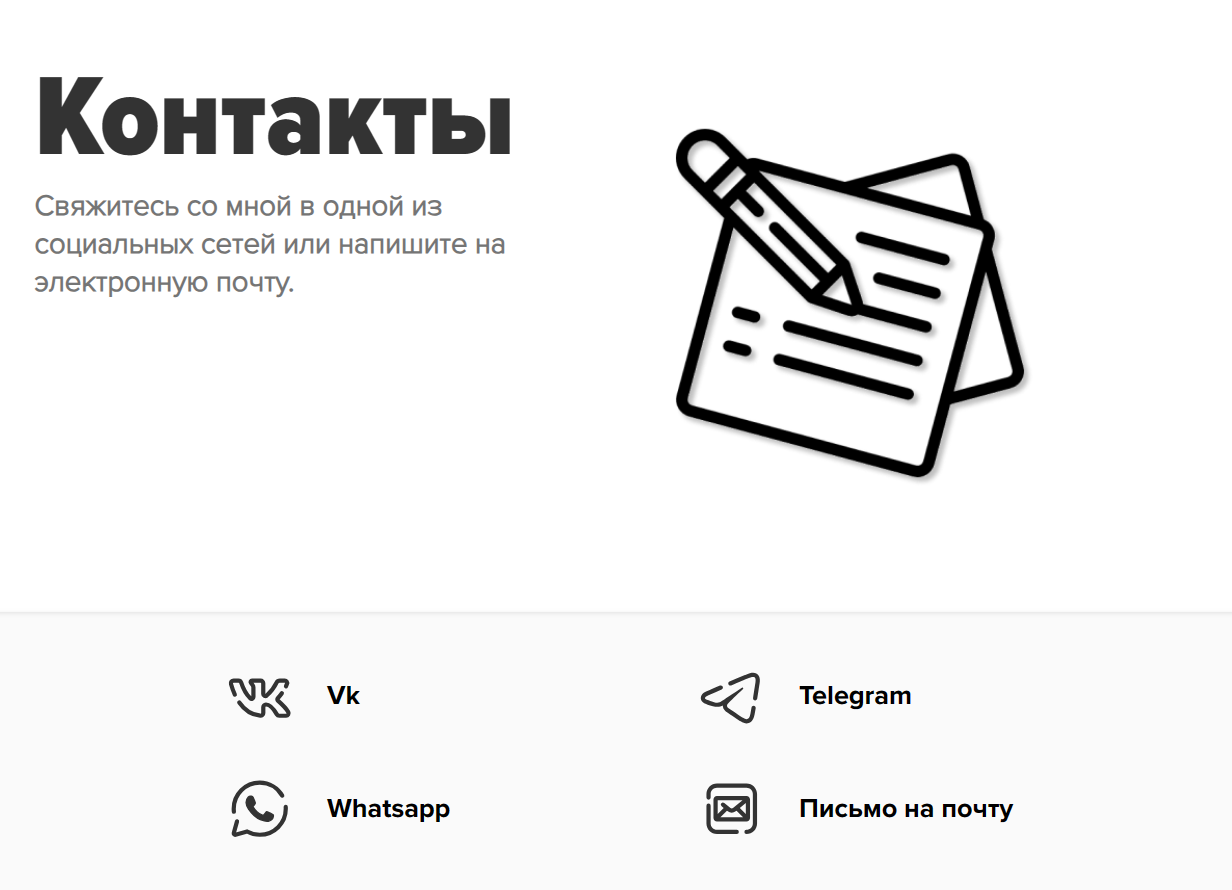
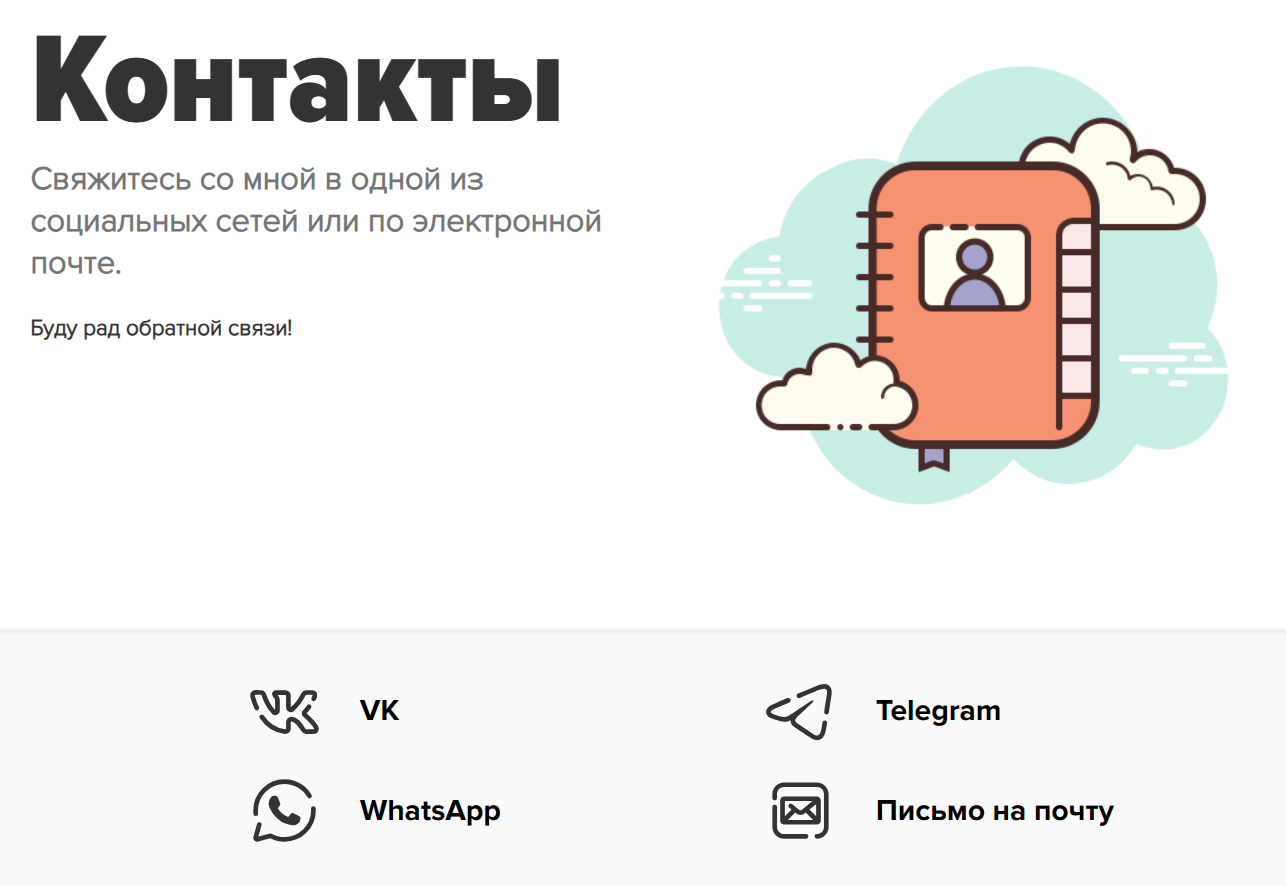
Рефакторинг кода, замена главного фото, коррекция ссылки в футере

diff --git a/src/data/portfolio.js b/src/data/portfolio.js
@@ -68,7 +68,7 @@ const portfolioList = [
         id: 4,
         name: 'Не реализовано',
         description:
-          'Страница "О Седоне", все скрипты, открытие и закрытие модального окна, слайдер в каталоге, сортировка и вид карточек в каталоге, динамическая загрузка карточек, адаптивность',
+          'Страница "О Седоне"; Все скрипты, открытие и закрытие модального окна; Слайдер в каталоге; Сортировка и вид карточек в каталоге; Динамическая загрузка карточек; Адаптивность',
       },
     ],
     images: [
@@ -128,13 +128,13 @@ const portfolioList = [
         id: 3,
         name: 'Дополнительно',
         description:
-          'Адаптив под телефон, планшет и десктоп, подключены интерактивные карты от Яндекса, отправка формы заявки на подбор программы, сборка и оптимизация через Gulp',
+          'Адаптив под телефон, планшет и десктоп; Подключены интерактивные карты от Яндекса; Отправка формы заявки на подбор программы; Сборка и оптимизация через Gulp',
       },
       {
         id: 4,
         name: 'Не реализовано',
         description:
-          'Слайдер на главной странице, корзина, загрузка ассортимента продукции',
+          'Слайдер на главной странице; Корзина; Загрузка ассортимента продукции',
       },
     ],
     images: [
@@ -184,18 +184,19 @@ const portfolioList = [
       {
         id: 2,
         name: 'Сверстанные страницы',
-        description: 'Главная, модальное окно загрузки фотографий',
+        description: 'Главная, Модальное окно загрузки фотографий',
       },
       {
         id: 3,
         name: 'Дополнительно',
         description:
-          'Подключены валидатор и слайдер, загрузка данных с сервера, фильтры изображения, сортировка отображения на сайте, попап статуса загрузки, динамическая подгрузка комментариев и данных фотографий',
+          'Подключены валидатор и слайдер; Загрузка данных с сервера; Фильтры изображения; Сортировка отображения на сайте; Попап статуса загрузки; Динамическая подгрузка комментариев и данных фотографий',
       },
       {
         id: 3,
         name: 'Не реализовано',
-        description: 'Добавление комментария к фотографиям',
+        description:
+          'Добавление комментария к фотографиям; Отображение загруженного изображения на сайте',
       },
     ],
     images: [
@@ -251,7 +252,7 @@ const portfolioList = [
         id: 3,
         name: 'Дополнительно',
         description:
-          'Слайдер в каталоге, привязка слайдера к чекбоксам выбора продукта, табы в описании продукта, оформленный заказ отправляется в Alert на сайте',
+          'Слайдер в каталоге; Привязка слайдера к чекбоксам выбора продукта; Табы в описании продукта; Оформленный заказ отправляется в Alert на сайте (для наглядности)',
       },
       {
         id: 4,
@@ -306,18 +307,19 @@ const portfolioList = [
         id: 2,
         name: 'Сверстанные страницы',
         description:
-          'Главная, Обо мне, Портфолио, Контакты и страницы каждого проекта',
+          'Главная, Обо мне, Портфолио, Контакты и страницы для каждого проекта',
       },
       {
         id: 3,
         name: 'Дополнительно',
         description:
-          'Подключен слайдер, все данные передаются из data-файлов и элементы отрисовываются по шаблонам',
+          'Подключен слайдер; Данные передаются из data.js-файлов и элементы отрисовываются по шаблонам',
       },
       {
         id: 4,
         name: 'Не реализовано',
-        description: 'Адаптивность, анимации',
+        description:
+          'Адаптивность через React-responsive; Анимации; Форма отправки сообщения на почту (временно реализовано через ссылку)',
       },
     ],
     images: [

diff --git a/src/components/layouts/footer/footer.jsx b/src/components/layouts/footer/footer.jsx
@@ -1,26 +1,19 @@
 import Navigation from '../../blocks/navigation/navigation';
 import Button from '../../ui/button/button';
-import { FooterIconsStyled, StyledCopyIcon, StyledCopyright, StyledFooter, StyledFooterWrapper } from './style';
+import { CopyIconStyled, CopyrightStyled, FooterStyled, FooterWrapperStyled } from './style';
 import copyicons from '../../../assets/icons/icons-author.svg';
-import { HandySvg } from 'handy-svg';
 
 export default function Footer() {
   return (
-    <StyledFooter>
-      <StyledFooterWrapper>
-        <StyledCopyright>&#169; 2023 Yuriy Plotnikov</StyledCopyright>
-        <FooterIconsStyled>
-            <span>icons by</span>
-          <Button padding href='https://icons8.com'>
-            Icons8
-          </Button>
-          <span>&</span>
-          <Button padding href='https://www.flaticon.com/ru/free-icons'>
-            Freepik
-          </Button>
-        </FooterIconsStyled>
+    <FooterStyled>
+      <FooterWrapperStyled>
+        <CopyrightStyled>&#169; 2023 Yuriy Plotnikov</CopyrightStyled>
+        <Button href='https://icons8.com'>
+          icons by
+          <CopyIconStyled src={copyicons} alt='Icons8' />
+        </Button>
         <Navigation />
-      </StyledFooterWrapper>
-    </StyledFooter>
+      </FooterWrapperStyled>
+    </FooterStyled>
   )
 }

diff --git a/src/components/pages/about/about.jsx b/src/components/pages/about/about.jsx
@@ -2,19 +2,19 @@ import AboutDetail from '../../blocks/about-detail/about-detail';
 import Intro from '../../blocks/intro/intro';
 import PhotoList from '../../blocks/photo-list/photo-list';
 import Skills from '../../blocks/skills-list/skills-list';
-import { StyledAbout } from './style';
-import image from '../../../assets/background-photo/about-photo.png';
+import { AboutStyled } from './style';
+import image from '../../../assets/background-photo/main-photo.png';
 import MyWay from '../../blocks/my-way/my-way';
 import photoList from '../../../data/photo';
 
 export default function About() {
   return (
-    <StyledAbout>
+    <AboutStyled>
       <Intro height='450px' title='Обо мне' titleSize='extrabig' textOne='Я - начинающий фронтендер, живущий в Сочи.' textTwo='Активно развиваюсь в этом направлении с 2022 года. Не только центрирую div&#8242;ы, но и веду активный образ жизни.' image={image} />
       <PhotoList background='#fafafa' list={photoList} length={5} width='170px' />
       <Skills />
       <AboutDetail />
       <MyWay />
-    </StyledAbout>
+    </AboutStyled>
   )
 }

diff --git a/src/components/layouts/footer/style.js b/src/components/layouts/footer/style.js
@@ -1,13 +1,13 @@
 import { HandySvg } from 'handy-svg';
 import styled from 'styled-components';
 
-export const StyledFooter = styled.footer`
+export const FooterStyled = styled.footer`
   background-color: #f5f5f5;
   color: #333;
   box-shadow: inset 0px 1px 4px 0px rgba(0, 0, 0, 0.1);
 `;
 
-export const StyledFooterWrapper = styled.div`
+export const FooterWrapperStyled = styled.div`
   display: flex;
   flex-wrap: wrap;
   box-sizing: border-box;
@@ -18,23 +18,18 @@ export const StyledFooterWrapper = styled.div`
   padding: 15px 10px;
 `;
 
-export const StyledCopyright = styled.p`
+export const CopyrightStyled = styled.p`
   margin: 0;
 `;
 
-export const StyledIconsCopy = styled.a`
+export const IconsCopyStyled = styled.a`
   text-decoration: none;
 `;
 
-export const StyledCopyIcon = styled(HandySvg)`
+export const CopyIconStyled = styled(HandySvg)`
   display: block;
   width: 25px;
   height: 25px;
   box-sizing: border-box;
   margin-left: 5px;
-`;
-
-export const FooterIconsStyled = styled.div`
-  display: flex;
-  gap: 5px;
 `;

diff --git a/src/components/pages/contacts/contacts.jsx b/src/components/pages/contacts/contacts.jsx
@@ -1,17 +1,17 @@
 import Intro from '../../blocks/intro/intro';
-import { ContactsSectionStyled, ContactsWrapperStyled, StyledContacts } from './style';
+import { ContactsSectionStyled, ContactsWrapperStyled, ContactsStyled } from './style';
 import Links from '../../blocks/social-links/social-links';
 import image from '../../../assets/background-photo/contacts-background.png';
 
 export default function Contacts() {
   return (
-    <StyledContacts>
+    <ContactsStyled>
       <Intro height='450px' title='Контакты' titleSize='extrabig' textOne='Свяжитесь со мной в одной из социальных сетей или по электронной почте.' textTwo='Буду рад обратной связи!' image={image} />
       <ContactsSectionStyled>
         <ContactsWrapperStyled>
           <Links $grid $title $start='2' $length='6' $color='#333' $size='60px' />
         </ContactsWrapperStyled>
       </ContactsSectionStyled>
-    </StyledContacts>
+    </ContactsStyled>
   )
 }

diff --git a/src/components/blocks/navigation/navigation.jsx b/src/components/blocks/navigation/navigation.jsx
@@ -1,20 +1,20 @@
 import Button from '../../ui/button/button';
-import { StyledNavItem, StyledNavList, StyledNavigation } from './style';
+import { NavItemStyled, NavListStyled, NavigationStyled } from './style';
 
 export default function Navigation({size}) {
   return (
-    <StyledNavigation $size={size}>
-      <StyledNavList>
-        <StyledNavItem>
+    <NavigationStyled $size={size}>
+      <NavListStyled>
+        <NavItemStyled>
           <Button link='about'>обо мне</Button>
-        </StyledNavItem>
-        <StyledNavItem>
+        </NavItemStyled>
+        <NavItemStyled>
           <Button link='portfolio'>портфолио</Button>
-        </StyledNavItem>
-        <StyledNavItem>
+        </NavItemStyled>
+        <NavItemStyled>
           <Button link='contacts'>контакты</Button>
-        </StyledNavItem>
-      </StyledNavList>
-    </StyledNavigation>
+        </NavItemStyled>
+      </NavListStyled>
+    </NavigationStyled>
   )
 }

diff --git a/src/components/blocks/social-links/social-links.jsx b/src/components/blocks/social-links/social-links.jsx
@@ -1,20 +1,20 @@
 import Button from '../../ui/button/button';
-import { StyledLinksItem, StyledLinksList, HandySvgStyled } from './style';
+import { LinksItemStyled, LinksListStyled, HandySvgStyled } from './style';
 
 import iconsList from '../../../data/icons';
 import Title from '../../ui/title/title';
 
 export default function Links({$grid, $title, $color, $size, $start, $length}) {
   return (
-    <StyledLinksList $grid={$grid}>
+    <LinksListStyled $grid={$grid}>
       {iconsList.slice($start, $length).map((icon) => (
-      <StyledLinksItem key={icon.id}>
+      <LinksItemStyled key={icon.id}>
         <Button href={icon.url}>
             <HandySvgStyled $grid={$grid} $color={$color} $size={$size} src={icon.image} alt={icon.title} />
             {($title ? <Title size='small' level='3'>{icon.title}</Title> : <></>)}
         </Button>
-      </StyledLinksItem>
+      </LinksItemStyled>
       ))}
-    </StyledLinksList>
+    </LinksListStyled>
   )
 }

diff --git a/src/components/pages/portfolio/portfolio.jsx b/src/components/pages/portfolio/portfolio.jsx
@@ -1,13 +1,13 @@
 import Intro from '../../blocks/intro/intro';
-import { StyledPortfolio } from './style';
+import { PortfolioStyled } from './style';
 import image from '../../../assets/background-photo/portfolio-background.png';
 import PortfolioList from '../../blocks/portfolio-list/portfolio-list';
 
 export default function Portfolio() {
   return (
-    <StyledPortfolio>
+    <PortfolioStyled>
       <Intro height='450px' title='Портфолио' titleSize='extrabig' textOne='Посмотрите несколько моих последних работ.' textTwo='Я - начинающий специалист, поэтому большая часть проектов выполнена в рамках учебных курсов.' image={image} />
       <PortfolioList />
-    </StyledPortfolio>
+    </PortfolioStyled>
   )
 }

diff --git a/src/components/blocks/portfolio-card/portfolio-card.jsx b/src/components/blocks/portfolio-card/portfolio-card.jsx
@@ -1,14 +1,14 @@
-import { StyledPortfolioCard, StyledPortfolioImage, StyledPortfolioText } from './style';
+import { PortfolioCardStyled, PortfolioImageStyled, PortfolioTextStyled } from './style';
 import Title, {TitleLevel, TitleSize} from '../../ui/title/title';
 
 export default function PortfolioCard({logo, title, textOne}) {
   return (
-    <StyledPortfolioCard>
-      <StyledPortfolioImage src={logo} alt={title}/>
+    <PortfolioCardStyled>
+      <PortfolioImageStyled src={logo} alt={title}/>
       <Title level={TitleLevel.H3} size={TitleSize.EXTRA_SMALL}>
         {title}
       </Title>
-      <StyledPortfolioText>{textOne}</StyledPortfolioText>
-    </StyledPortfolioCard>
+      <PortfolioTextStyled>{textOne}</PortfolioTextStyled>
+    </PortfolioCardStyled>
   )
 }

diff --git a/src/components/pages/main/main.jsx b/src/components/pages/main/main.jsx
@@ -1,14 +1,14 @@
 import Intro from '../../blocks/intro/intro';
 import MyWorks from '../../blocks/my-works/my-works';
-import { StyledMain } from './style';
+import { MainStyled } from './style';
 import image from '../../../assets/background-photo/main-photo.png';
 import background from '../../../assets/background-photo/main-background.png';
 
 export default function Main() {
   return (
-    <StyledMain>
+    <MainStyled>
       <Intro height='450px' title='Frontend Developer' titleSize='big' textOne='Пишу чистый, изящный и эффективный код.' image={image} background={background} />
       <MyWorks />
-    </StyledMain>
+    </MainStyled>
   )
 }

diff --git a/src/components/layouts/header/header.jsx b/src/components/layouts/header/header.jsx
@@ -1,16 +1,16 @@
 import Navigation from '../../blocks/navigation/navigation';
 import Links from '../../blocks/social-links/social-links';
 import Logo from '../../ui/logo/logo';
-import { StyledHeader, StyledHeaderWrapper } from './style';
+import { HeaderStyled, HeaderWrapperStyled } from './style';
 
 export default function Header() {
   return (
-    <StyledHeader>
-      <StyledHeaderWrapper>
+    <HeaderStyled>
+      <HeaderWrapperStyled>
         <Logo />
         <Navigation size />
         <Links $start='0' $length='3' $color='#fff' $size='40px' />
-      </StyledHeaderWrapper>
-    </StyledHeader>
+      </HeaderWrapperStyled>
+    </HeaderStyled>
   )
 }

diff --git a/src/components/blocks/portfolio-card/style.js b/src/components/blocks/portfolio-card/style.js
@@ -1,6 +1,6 @@
 import { styled } from 'styled-components';
 
-export const StyledPortfolioCard = styled.div`
+export const PortfolioCardStyled = styled.div`
   display: flex;
   flex-direction: column;
   padding: 5px;
@@ -9,7 +9,7 @@ export const StyledPortfolioCard = styled.div`
   height: 240px;
 `;
 
-export const StyledPortfolioImage = styled.img`
+export const PortfolioImageStyled = styled.img`
   display: block;
   height: 160px;
   width: auto;
@@ -17,6 +17,6 @@ export const StyledPortfolioImage = styled.img`
   border-radius: 5px;
 `;
 
-export const StyledPortfolioText = styled.p`
+export const PortfolioTextStyled = styled.p`
   margin: 0;
 `;
